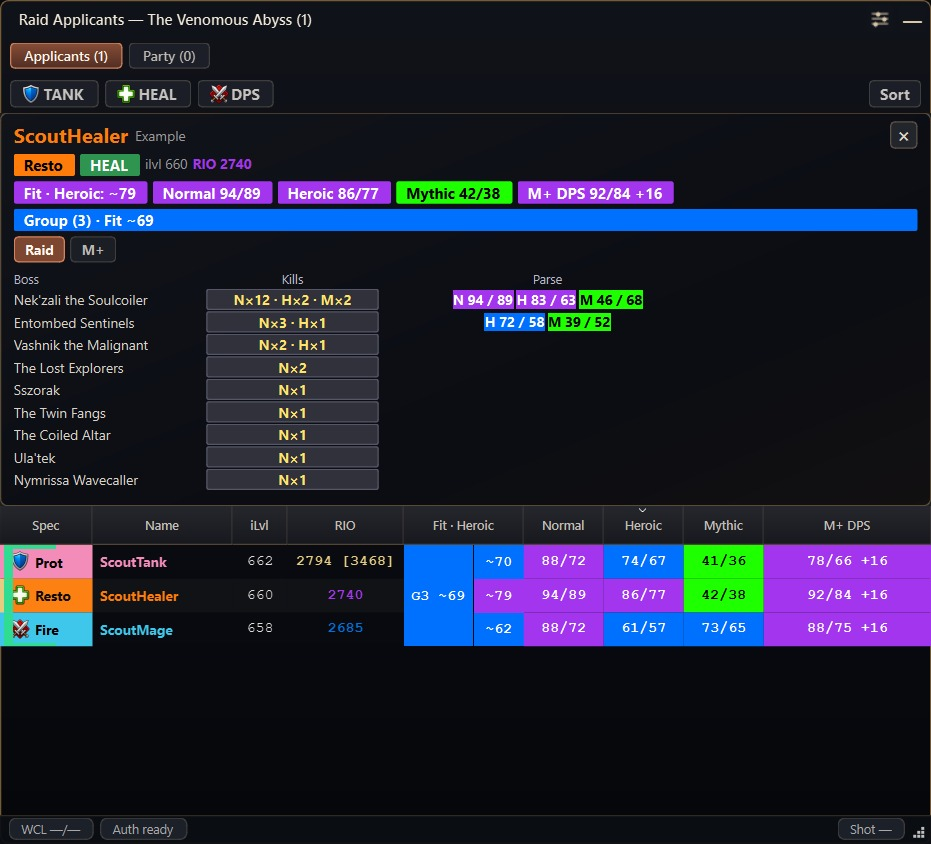
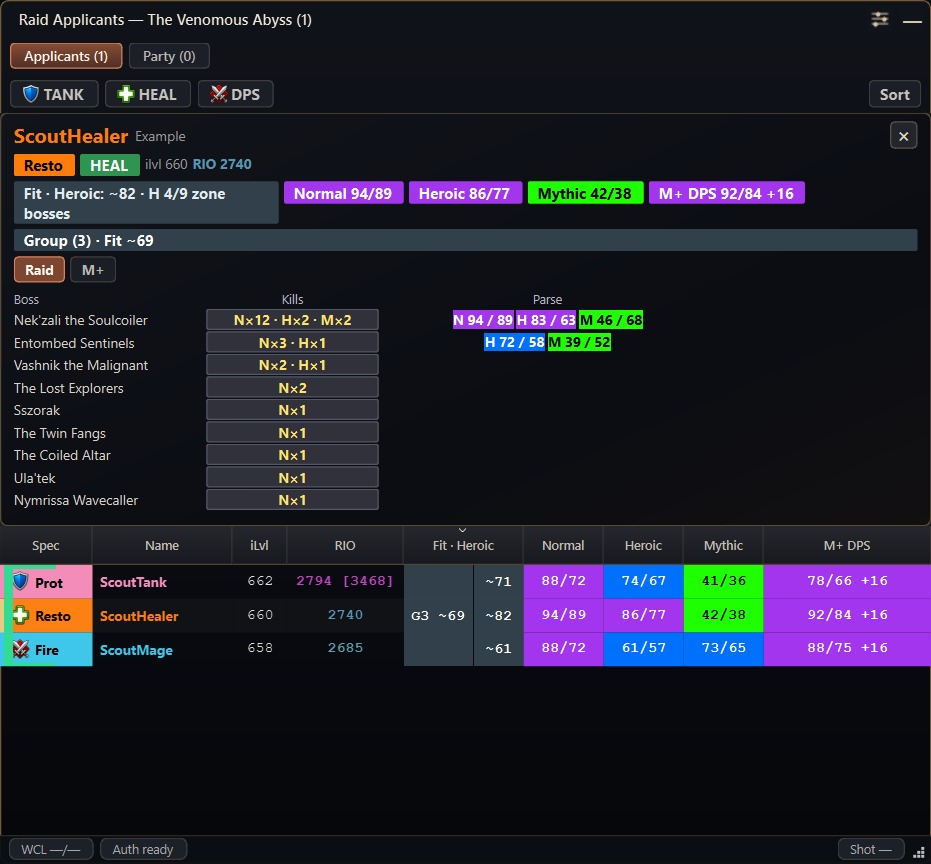
docs: explain verified player estimates [skip ci]
Explain timed-only Mythic+ readiness, separate WCL throughput and unknown
results, and refresh anonymized overlay previews for the revised companion.

Validation: 791 addon contract tests, paired Strict image parity, Lua syntax
and diagnostics, and public-copy checks passed locally.

diff --git a/README.md b/README.md
@@ -85,19 +85,22 @@ Normal, Heroic, Mythic, and M+ results use the applying specialization.
 WCL percentiles keep their usual colours. Missing logs are marked as missing;
 tooltips explain best/median values and limited samples.
 
-**Fit**, shown as an estimate such as **~65**, describes how the available
-data matches the target key or raid. It is not a success probability or a
-Warcraft Logs percentile. Its colours use the same thresholds as WCL results.
-Hover Fit for evidence strength, dungeon coverage,
-and limitations. Optional local RaiderIO data adds dungeon, raid, and main-score
-context when available.
+**Fit**, shown as a neutral estimate such as **~65**, describes verified in-time
+key experience for Mythic+ or available raid output evidence. It is not an overall
+skill rating, success probability or Warcraft Logs percentile. Missing evidence
+stays unknown; incomplete grouped applications show `partial`. Hover Fit for
+sources, recorded coverage, sample counts and limitations. Applications default
+to the target estimate; click a WCL or RIO heading to compare that metric instead.
+Untimed keys, WCL logs and general rating do not produce M+ Fit.
+Optional local RaiderIO data adds dungeon, raid and main-score context.
 
 Party also shows raid Fit without a Group Finder listing. Inside a raid it uses
 the instance difficulty; outside it uses the selected Normal, Heroic or Mythic
 raid difficulty. Click a column heading to sort and click again to reverse it.
 
 **M+ WCL values measure damage for every role**, including tanks and healers.
-They do not measure healing, survival, interrupts, or other utility.
+They do not measure healing, survival, interrupts, or other utility, and do not
+change M+ Fit.
 ApplicantScout does not auto-invite players or automate gameplay; you choose
 whom to invite.
 

diff --git a/CHANGELOG.md b/CHANGELOG.md
@@ -1,5 +1,10 @@
 # Changelog
 
+## Unreleased
+
+- Companion: base Mythic+ Fit on keys completed in time, clarify missing evidence,
+  and update overlay explanations and previews.
+
 ## 0.14.0 - 04-Oct-2026 — Guided setup and unified settings
 
 Compatible with ApplicantScout Companion `0.22.2`; the Windows app is unchanged.
